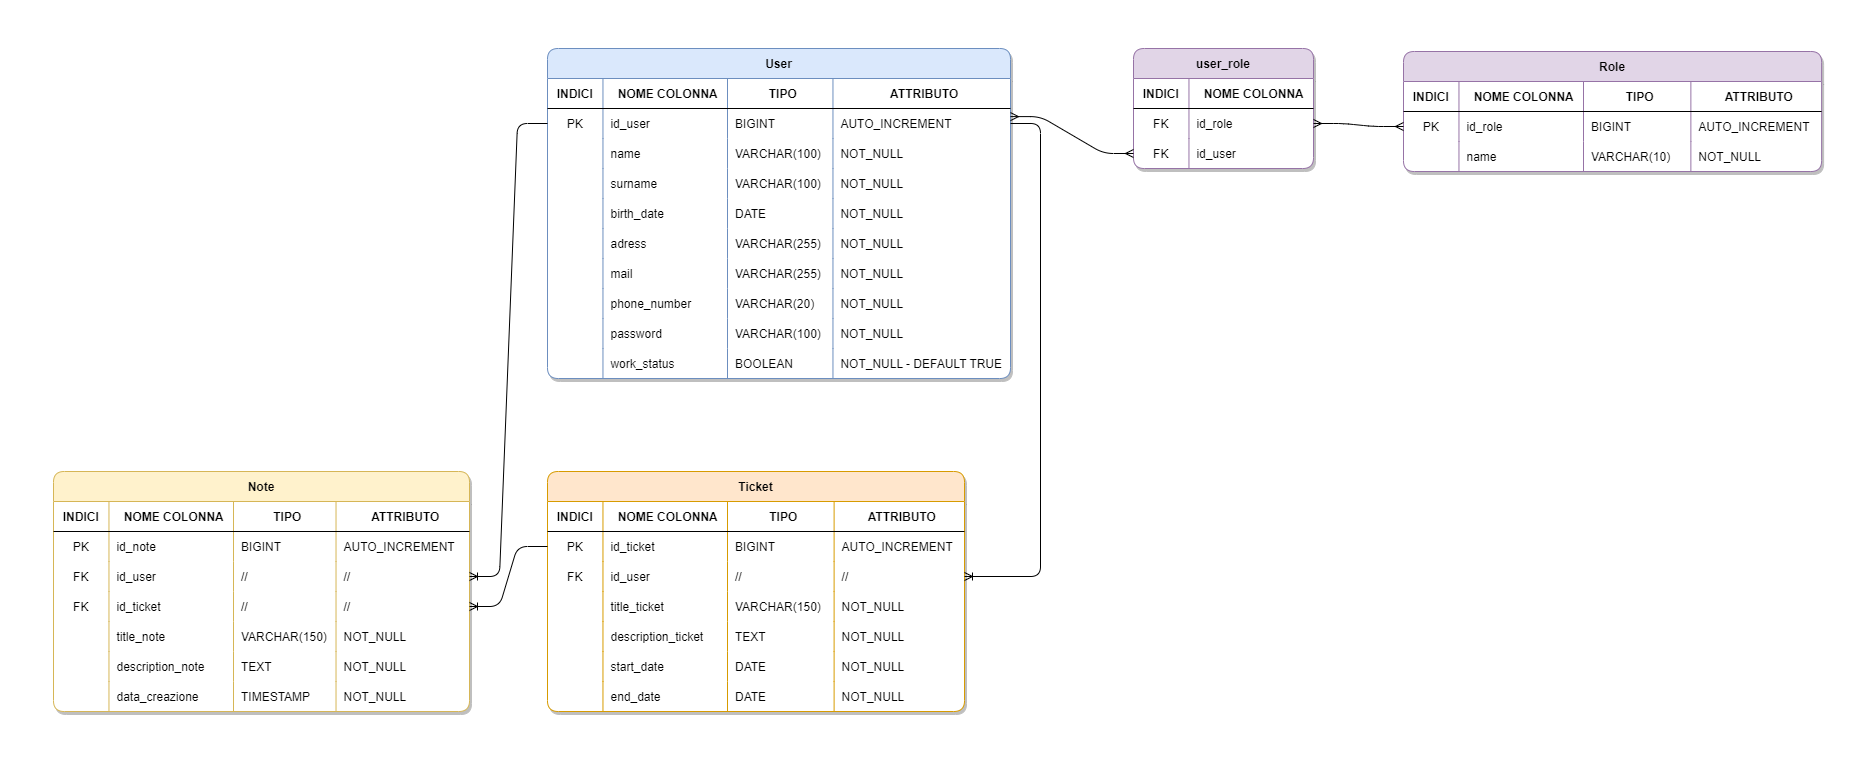
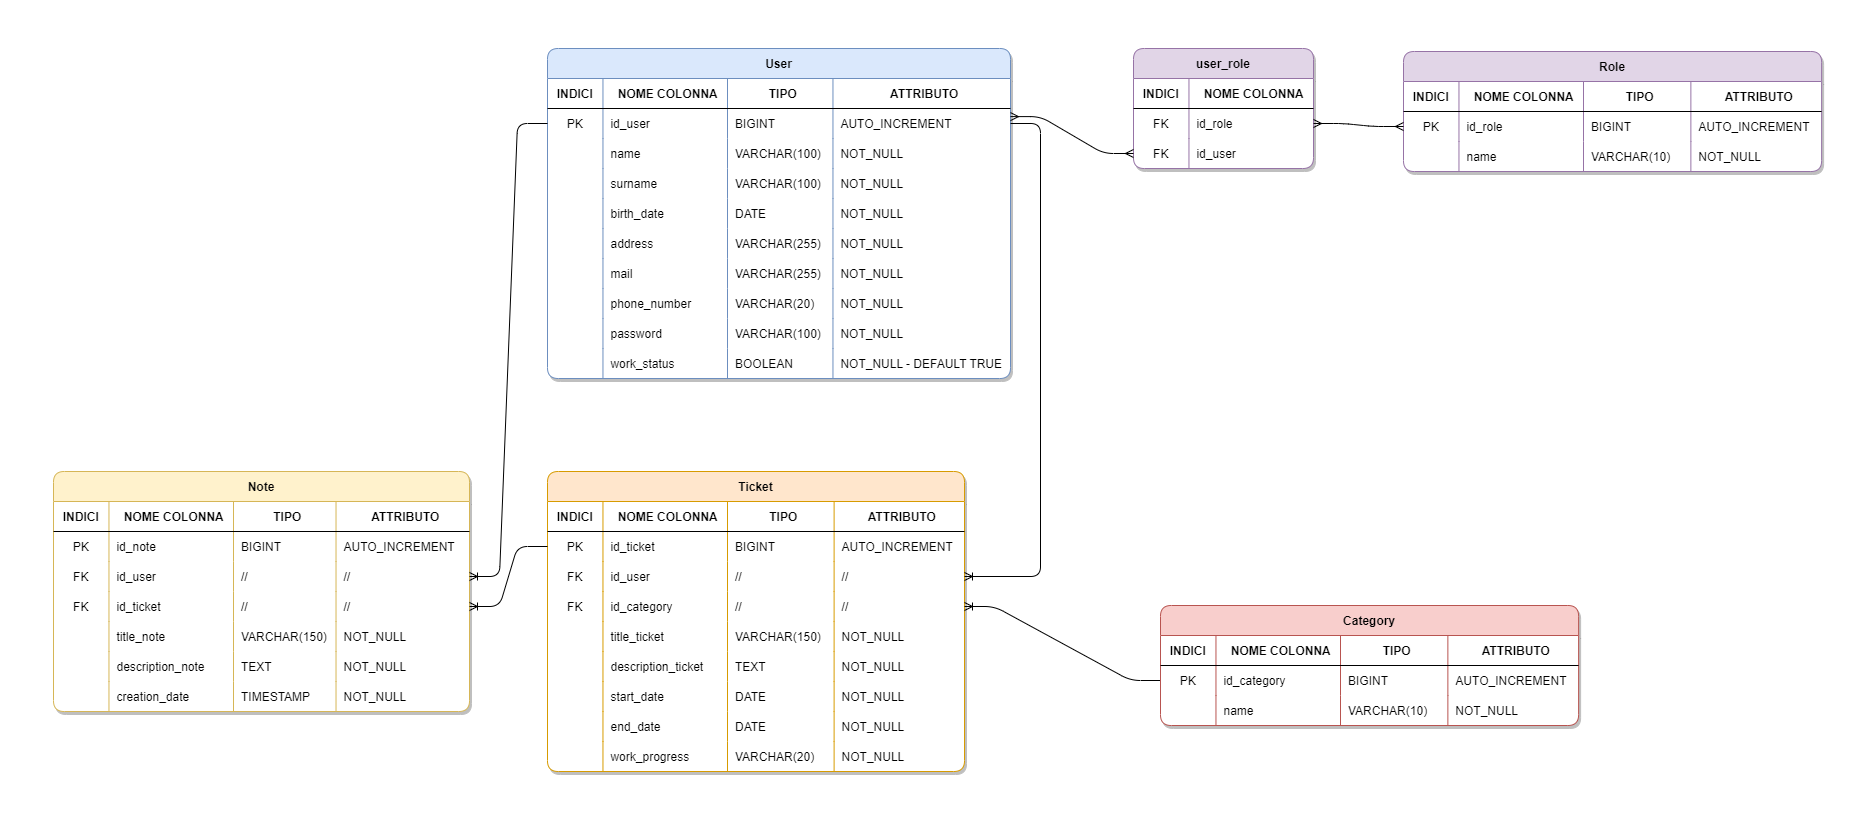
fix: diagramma ER con nuova entity

diff --git a/src/main/java/com/ticket/platform/model/Ticket.java b/src/main/java/com/ticket/platform/model/Ticket.java
@@ -49,6 +49,7 @@ public class Ticket {
 
 	@NotBlank(message = "Lo stato non può essere Null")
 	@Pattern(regexp = "^(APERTO|IN LAVORAZIONE|CHIUSO)$", message = "Lo stato deve essere uno tra 'Aperto', 'In lavorazione' o 'Chiuso'")
+	@Size(max = 20, message = "Il work progess può avere massimo 20 caratteri")
 	@Column(name = "work_progress", nullable = false)
 	private String workProgress = "APERTO";
 
